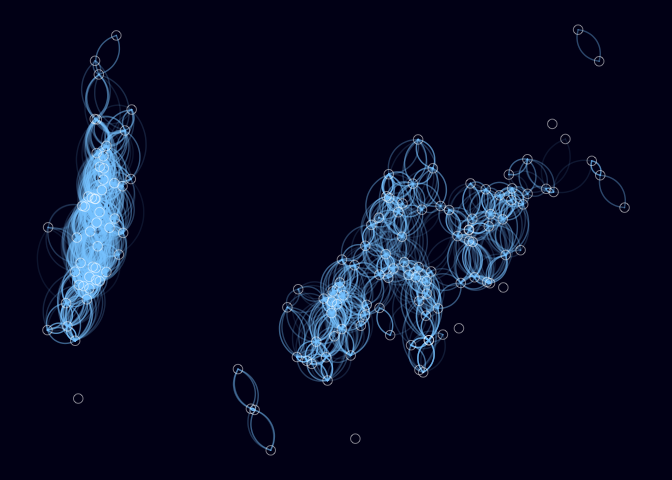
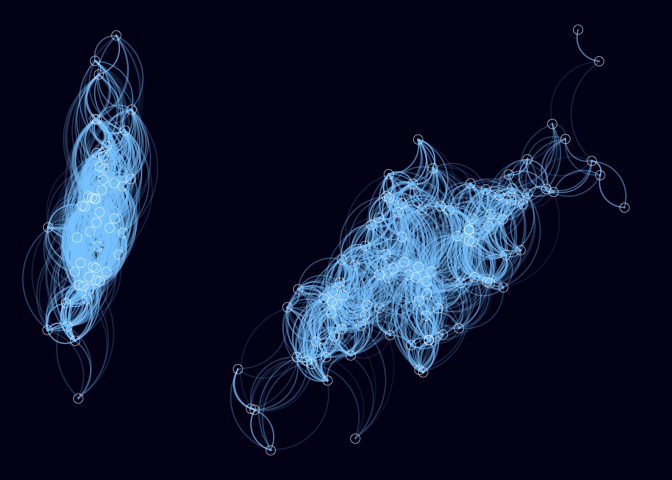
Addition to handle correlations

diff --git a/visualisation/Clustering with Multidimensional Scaling/README.md b/visualisation/Clustering with Multidimensional Scaling/README.md
@@ -27,6 +27,10 @@ lines) whose alpha (transparency) relates to proximity. Only a certain
 proportion of the closest paths are included to make the plot cleaner
 and reduce computational requirements.
 
+A second example is shown below in which correlations between columns
+are used instead of Euclidean distance of rows. This has a few tweaks
+made.
+
 To reuse, simply assign the variable `d` to your own data. You can also
 easily adjust the proportion of paths to be drawn with `prop_draw`.
 
@@ -51,7 +55,7 @@ Improvements welcome!
     d <- iris %>% keep(is.numeric)
 
     # Set the proportion of paths to be drawn
-    prop_draw <- .08
+    prop_draw <- .2
 
     # =============================================================
 
@@ -94,8 +98,8 @@ Improvements welcome!
     colnames(paths) <- c("x", "y", "xend", "yend", "proximity")
 
     path <- 1
-    for(row in 1:nrow(distance)) {
-      for(col in 1:ncol(distance)) {
+    for(row in 2:nrow(distance)) {
+      for(col in 1:(row - 1)) {  # Optimised to avoid the diagonal and upper triangle (which are NA)
         path_proximity <- proximity[row, col]
         if (!is.na(path_proximity)) {
           x    <- points$x[row]
@@ -127,3 +131,105 @@ Improvements welcome!
       theme_map()
 
 ![](README_files/figure-markdown_strict/unnamed-chunk-1-1.png)
+
+Below example plot correlations between columns. This is a nice way to
+visualize a correlation matrix. Few tweaks are made compared to example
+above to handle negative values etc.
+
+    library(dplyr)
+    library(purrr)
+    library(ggplot2)
+
+    # source the theme_map for ggplot2
+    source("https://dl.dropboxusercontent.com/u/2364714/theme_map.R")
+
+    # Useful variables ============================================
+
+    # Data frame of numeric columns to be clustered
+    d <- mtcars %>% keep(is.numeric)
+
+    # Set the proportion of paths to be drawn
+    prop_draw <- .50
+
+    # =============================================================
+
+    # Produce a distance matrix.
+    # Here using euclideanvia dist()
+    # But easily replaceable with others (e.g., absolute value of correlations)
+    distance <- d %>%
+      cor(use = "pairwise.complete.obs")
+    distance <- sign(distance) * (1 - abs(distance))
+
+    # Use multidimensional Scaling to obtain x and y coordinates for points.
+    points <- distance %>%
+      abs() %>%
+      cmdscale() %>%
+      data.frame() %>%
+      rename(x = X1, y = X2) %>%
+      mutate(id = rownames(.))
+
+    # Create a proximity matrix of the paths to be plotted.
+    # This requires:
+    #   1. Pruning the distance matrix to
+    #      a. only include a proportion of the closest points (prop_draw).
+    #      b. Remove any paths between points with a distance of 0 (as path cannot be drawn).
+    #   2. Inversing the values (from distance to proximity).
+    #   3. Scaling values within range of 0 - 1 to suit `alpha` in the plot.
+    proximity <- abs(distance)
+    # Step 1a.
+    proximity[upper.tri(proximity)] <- NA
+    diag(proximity) <- NA
+    proximity[proximity > quantile(proximity, prop_draw, na.rm = TRUE)] <- NA
+    # Step 1b.
+    proximity[proximity == 0] <- NA
+    # Step 2.
+    proximity <- max(proximity, na.rm = TRUE) - proximity
+    # Step 3.
+    proximity <- (proximity - min(proximity, na.rm = TRUE)) / (max(proximity, na.rm = TRUE) - min(proximity, na.rm = TRUE))
+    proximity <- .7 * proximity  # limit path alpha to .7 instead of 1
+
+    # Produce a data frame of data needed for plotting the paths.
+    n_paths <- sum(!is.na(proximity))
+    paths <- matrix(nrow = n_paths, ncol = 6) %>% data.frame()
+    colnames(paths) <- c("x", "y", "xend", "yend", "proximity", "sign")
+
+    path <- 1
+    for(row in 1:nrow(distance)) {
+      for(col in 1:ncol(distance)) {
+        path_proximity <- proximity[row, col]
+        path_sign <- sign(distance[row, col])
+        if (!is.na(path_proximity)) {
+          x    <- points$x[row]
+          y    <- points$y[row]
+          xend <- points$x[col]
+          yend <- points$y[col]
+          paths[path, ] <- c(x, y, xend, yend, path_proximity, path_sign)
+          path <- path + 1
+        }
+      }
+    }
+
+    # Produce the plot.
+    ggplot() +
+      # Plot the paths
+      geom_curve(data = paths,
+                 aes(x = x, y = y, xend = xend, yend = yend,
+                     alpha = proximity, colour = factor(sign)),
+                 show.legend = FALSE) +
+      # Plot the points
+      geom_point(data = points,
+                 aes(x, y),
+                 size = 3, alpha = .5, shape = 1, colour = "white") +
+      # Plot variable labels
+      geom_text(data = points,
+                aes(x, y, label = id),
+                size = 8, colour = "white") +
+      # expand the axes to add space for curves etc
+      expand_limits(x = c(min(points$x) - .1 * sd(points$x),
+                          max(points$x) + .1 * sd(points$x)),
+                    y = c(min(points$y) - .1 * sd(points$y),
+                          max(points$y) + .1 * sd(points$y))
+      ) +
+      theme_map()
+
+![](README_files/figure-markdown_strict/unnamed-chunk-2-1.png)
